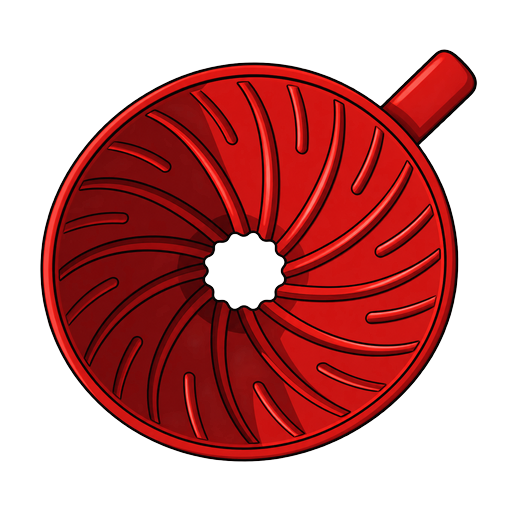
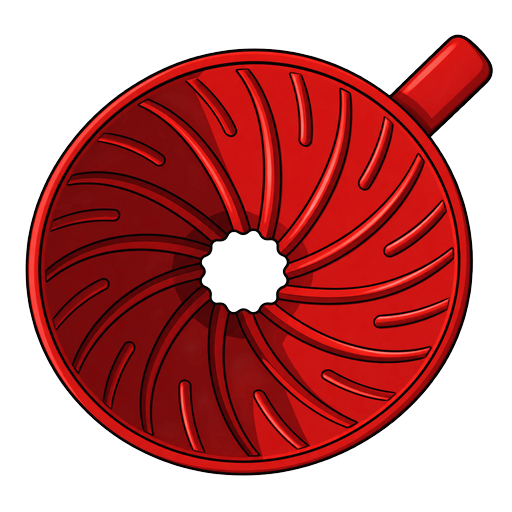
Add files via upload

Changed region(s): [[0.0312, 0.0625, 0.9688, 0.9375]]

diff --git a/index.html b/index.html
@@ -84,7 +84,7 @@
         <h1>☕ Mr Coffee</h1>
         <div class="sub">V60 scale-side helper</div>
       </div>
-      <div style="text-align:right"><div class="pill" id="ratioBadge">16:1 · 3× bloom</div><div class="sub" style="margin-top:5px">Mr Coffee · v1.3.6</div></div>
+      <div style="text-align:right"><div class="pill" id="ratioBadge">16:1 · 3× bloom</div><div class="sub" style="margin-top:5px">Mr Coffee · v1.3.7</div></div>
     </div>
 
     <div class="tabs">

diff --git a/service-worker.js b/service-worker.js
@@ -1,4 +1,4 @@
-const CACHE='mr-coffee-v1.3.6';
+const CACHE='mr-coffee-v1.3.7';
 const CORE=['./','./index.html','./manifest.webmanifest','./icon-192.png','./icon-512.png'];
 self.addEventListener('install',e=>{self.skipWaiting();e.waitUntil(caches.open(CACHE).then(c=>c.addAll(CORE)))});
 self.addEventListener('activate',e=>e.waitUntil(caches.keys().then(keys=>Promise.all(keys.filter(k=>k!==CACHE).map(k=>caches.delete(k)))).then(()=>self.clients.claim())));

diff --git a/README.md b/README.md
@@ -29,3 +29,6 @@ v1.3.5 reduces the V60 icon size within the transparent square so Android launch
 
 
 v1.3.6 makes the transparent icon larger and centers it by the visible artwork's weighted center instead of the total bounding box.
+
+
+v1.3.7 increases the transparent icon scale while keeping weighted-center placement, for a larger V60 within launcher-imposed circular backgrounds.
